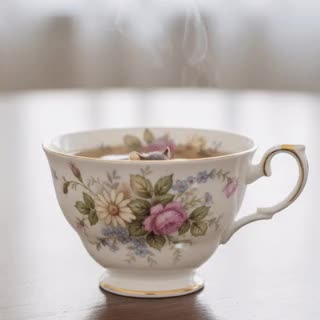
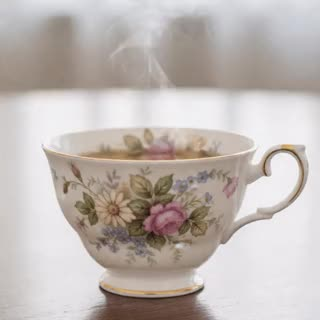
GitHub star badges next to code links; ChronoEdit teaser at native frame rate

diff --git a/index.html b/index.html
@@ -153,7 +153,7 @@
                 <br>
                 <a href="https://research.nvidia.com/labs/sil/projects/omnidreams-blog/">project page</a> /
                 <a href="https://arxiv.org/abs/2606.03159">arXiv</a> /
-                <a href="https://github.com/nv-tlabs/omni-dreams">code</a>
+                <a href="https://github.com/nv-tlabs/omni-dreams">code</a> <a href="https://github.com/nv-tlabs/omni-dreams"><img src="https://img.shields.io/github/stars/nv-tlabs/omni-dreams?style=social&amp;label=" alt="GitHub stars" style="height:20px;vertical-align:middle"></a>
                 <p></p>
                 <p align="justify">A real-time generative world model built on Cosmos for closed-loop autonomous vehicle simulation.</p>
             </td>
@@ -171,7 +171,7 @@
                 <br>
                 <a href="https://research.nvidia.com/labs/cosmos-lab/cosmos3/">project page</a> /
                 <a href="https://arxiv.org/abs/2606.02800">arXiv</a> /
-                <a href="https://github.com/NVIDIA/cosmos">code</a>
+                <a href="https://github.com/NVIDIA/cosmos">code</a> <a href="https://github.com/NVIDIA/cosmos"><img src="https://img.shields.io/github/stars/NVIDIA/cosmos?style=social&amp;label=" alt="GitHub stars" style="height:20px;vertical-align:middle"></a>
                 <p></p>
                 <p align="justify">The third generation of NVIDIA Cosmos: omnimodal world foundation models for physical AI.</p>
             </td>
@@ -195,7 +195,7 @@
                 <br>
                 <a href="https://research.nvidia.com/labs/sil/projects/pid/">project page</a> /
                 <a href="https://arxiv.org/abs/2605.23902">arXiv</a> /
-                <a href="https://github.com/nv-tlabs/PiD">code</a> /
+                <a href="https://github.com/nv-tlabs/PiD">code</a> <a href="https://github.com/nv-tlabs/PiD"><img src="https://img.shields.io/github/stars/nv-tlabs/PiD?style=social&amp;label=" alt="GitHub stars" style="height:20px;vertical-align:middle"></a> /
                 <a href="https://huggingface.co/nvidia/PiD">model</a>
                 <p></p>
                 <p align="justify">Replaces the VAE decoder with a fast pixel-space diffusion decoder, turning low-resolution latents into sharp high-resolution images.</p>
@@ -223,7 +223,7 @@
                 <br>
                 <a href="https://research.nvidia.com/labs/sil/projects/gamma-world/">project page</a> /
                 <a href="https://arxiv.org/abs/2605.28816">arXiv</a> /
-                <a href="https://github.com/nv-tlabs/Gamma-World">code</a>
+                <a href="https://github.com/nv-tlabs/Gamma-World">code</a> <a href="https://github.com/nv-tlabs/Gamma-World"><img src="https://img.shields.io/github/stars/nv-tlabs/Gamma-World?style=social&amp;label=" alt="GitHub stars" style="height:20px;vertical-align:middle"></a>
                 <p></p>
                 <p align="justify">A generative world model that simulates many interacting agents in a shared world, going beyond the two-player setting.</p>
             </td>
@@ -255,7 +255,7 @@
                 <br>
                 <a href="https://nv-tlabs.github.io/Project-Lyra/">project page</a> /
                 <a href="https://arxiv.org/abs/2604.13036">arXiv</a> /
-                <a href="https://github.com/nv-tlabs/lyra">code</a>
+                <a href="https://github.com/nv-tlabs/lyra">code</a> <a href="https://github.com/nv-tlabs/lyra"><img src="https://img.shields.io/github/stars/nv-tlabs/lyra?style=social&amp;label=" alt="GitHub stars" style="height:20px;vertical-align:middle"></a>
                 <p></p>
                 <p align="justify">Generates large, explorable 3D worlds from a prompt that can be navigated freely in real time.</p>
             </td>
@@ -286,7 +286,7 @@
                 <br>
                 <a href="https://research.nvidia.com/labs/toronto-ai/chronoedit/">project page</a> /
                 <a href="https://arxiv.org/abs/2510.04290">arXiv</a> /
-                <a href="https://github.com/nv-tlabs/ChronoEdit">code</a>
+                <a href="https://github.com/nv-tlabs/ChronoEdit">code</a> <a href="https://github.com/nv-tlabs/ChronoEdit"><img src="https://img.shields.io/github/stars/nv-tlabs/ChronoEdit?style=social&amp;label=" alt="GitHub stars" style="height:20px;vertical-align:middle"></a>
                 <p></p>
                 <p align="justify">Reframes image editing as a short video generation problem so the model can reason about how a scene changes over time, enabling physically plausible edits and world simulation.</p>
             </td>
@@ -316,7 +316,7 @@
                 <br>
                 <a href="https://research.nvidia.com/labs/toronto-ai/lyra/">project page</a> /
                 <a href="https://arxiv.org/abs/2509.19296">arXiv</a> /
-                <a href="https://github.com/nv-tlabs/lyra">code</a>
+                <a href="https://github.com/nv-tlabs/lyra">code</a> <a href="https://github.com/nv-tlabs/lyra"><img src="https://img.shields.io/github/stars/nv-tlabs/lyra?style=social&amp;label=" alt="GitHub stars" style="height:20px;vertical-align:middle"></a>
                 <p></p>
                 <p align="justify">Distills a video diffusion model into a feed-forward 3D Gaussian scene generator, producing explorable 3D scenes from a single image or text.</p>
             </td>
@@ -348,7 +348,7 @@
                 <br>
                 <a href="https://research.nvidia.com/labs/toronto-ai/vipe/">project page</a> /
                 <a href="https://research.nvidia.com/labs/toronto-ai/vipe/assets/paper.pdf">paper</a> /
-                <a href="https://github.com/nv-tlabs/vipe">code</a>
+                <a href="https://github.com/nv-tlabs/vipe">code</a> <a href="https://github.com/nv-tlabs/vipe"><img src="https://img.shields.io/github/stars/nv-tlabs/vipe?style=social&amp;label=" alt="GitHub stars" style="height:20px;vertical-align:middle"></a>
                 <p></p>
                 <p align="justify">A robust engine that recovers camera poses, intrinsics and dense metric depth from in-the-wild videos at scale.</p>
             </td>
@@ -381,7 +381,7 @@
                 <br>
                 <a href="https://research.nvidia.com/labs/toronto-ai/cosmos_drive_dreams/">project page</a> /
                 <a href="https://arxiv.org/abs/2506.09042">arXiv</a> /
-                <a href="https://github.com/nv-tlabs/Cosmos-Drive-Dreams">code</a>
+                <a href="https://github.com/nv-tlabs/Cosmos-Drive-Dreams">code</a> <a href="https://github.com/nv-tlabs/Cosmos-Drive-Dreams"><img src="https://img.shields.io/github/stars/nv-tlabs/Cosmos-Drive-Dreams?style=social&amp;label=" alt="GitHub stars" style="height:20px;vertical-align:middle"></a>
                 <p></p>
                 <p align="justify">A synthetic data generation pipeline built on world foundation models that produces diverse, controllable driving data at scale.</p>
             </td>
@@ -408,7 +408,7 @@
                 <br>
                 <a href="https://research.nvidia.com/labs/toronto-ai/GEN3C/">project page</a> /
                 <a href="https://arxiv.org/abs/2503.03751">arXiv</a> /
-                <a href="https://github.com/nv-tlabs/GEN3C">code</a> /
+                <a href="https://github.com/nv-tlabs/GEN3C">code</a> <a href="https://github.com/nv-tlabs/GEN3C"><img src="https://img.shields.io/github/stars/nv-tlabs/GEN3C?style=social&amp;label=" alt="GitHub stars" style="height:20px;vertical-align:middle"></a> /
                 <a href="https://www.youtube.com/watch?v=ai72aAA0dWo">video</a>
                 <p></p>
                 <p align="justify">A generative video model guided by an explicit 3D cache, giving precise camera control and 3D-consistent results from as little as a single image.</p>
@@ -427,7 +427,7 @@
                 <br>
                 <a href="https://research.nvidia.com/labs/dir/cosmos-transfer1/">project page</a> /
                 <a href="https://arxiv.org/abs/2503.14492">arXiv</a> /
-                <a href="https://github.com/nvidia-cosmos/cosmos-transfer1">code</a> /
+                <a href="https://github.com/nvidia-cosmos/cosmos-transfer1">code</a> <a href="https://github.com/nvidia-cosmos/cosmos-transfer1"><img src="https://img.shields.io/github/stars/nvidia-cosmos/cosmos-transfer1?style=social&amp;label=" alt="GitHub stars" style="height:20px;vertical-align:middle"></a> /
                 <a href="https://www.youtube.com/watch?v=0Yr5SdrVnxc">video</a>
                 <p></p>
                 <p align="justify">A conditional world foundation model that generates simulations from multiple spatial control inputs such as segmentation, depth and edges.</p>
@@ -454,7 +454,7 @@
                 <br>
                 <a href="https://research.nvidia.com/labs/toronto-ai/difix3d/">project page</a> /
                 <a href="https://arxiv.org/abs/2503.01774">arXiv</a> /
-                <a href="https://github.com/nv-tlabs/Difix3D">code</a>
+                <a href="https://github.com/nv-tlabs/Difix3D">code</a> <a href="https://github.com/nv-tlabs/Difix3D"><img src="https://img.shields.io/github/stars/nv-tlabs/Difix3D?style=social&amp;label=" alt="GitHub stars" style="height:20px;vertical-align:middle"></a>
                 <p></p>
                 <p align="justify">A single-step diffusion model that removes artifacts from NeRF and 3D Gaussian Splatting renderings and improves novel-view quality.</p>
             </td>
@@ -477,7 +477,7 @@
                 <br>
                 <a href="https://research.nvidia.com/labs/toronto-ai/xcube/">project page</a> /
                 <a href="https://arxiv.org/abs/2312.03806">arXiv</a> /
-                <a href="https://github.com/nv-tlabs/XCube">code</a> /
+                <a href="https://github.com/nv-tlabs/XCube">code</a> <a href="https://github.com/nv-tlabs/XCube"><img src="https://img.shields.io/github/stars/nv-tlabs/XCube?style=social&amp;label=" alt="GitHub stars" style="height:20px;vertical-align:middle"></a> /
                 <a href="https://www.youtube.com/watch?v=GX0lzwy8nUI">video</a>
                 <p></p>
                 <p align="justify">A generative model for high-resolution sparse 3D voxel grids that scales to millions of voxels and large outdoor scenes in a feed-forward fashion.</p>
@@ -497,7 +497,7 @@
                 <br>
                 <a href="https://xrenaa.github.io/look-outside-room/">project page</a> /
                 <a href="https://arxiv.org/abs/2203.09457">arXiv</a> /
-                <a href="https://github.com/xrenaa/Look-Outside-Room">code</a> /
+                <a href="https://github.com/xrenaa/Look-Outside-Room">code</a> <a href="https://github.com/xrenaa/Look-Outside-Room"><img src="https://img.shields.io/github/stars/xrenaa/Look-Outside-Room?style=social&amp;label=" alt="GitHub stars" style="height:20px;vertical-align:middle"></a> /
                 <a href="https://www.youtube.com/watch?v=eSftXilv21s">video</a>
                 <p></p>
                 <p align="justify">Synthesizes long-term, consistent 3D scene videos from a single image along arbitrary camera trajectories.</p>
@@ -519,7 +519,7 @@
                 <br>
                 <a href="https://research.nvidia.com/labs/sil/projects/omnidreams-blog/">project page</a> /
                 <a href="https://arxiv.org/abs/2606.03159">arXiv</a> /
-                <a href="https://github.com/nv-tlabs/omni-dreams">code</a>
+                <a href="https://github.com/nv-tlabs/omni-dreams">code</a> <a href="https://github.com/nv-tlabs/omni-dreams"><img src="https://img.shields.io/github/stars/nv-tlabs/omni-dreams?style=social&amp;label=" alt="GitHub stars" style="height:20px;vertical-align:middle"></a>
                 <p></p>
                 <p align="justify">A real-time generative world model built on Cosmos for closed-loop autonomous vehicle simulation.</p>
             </td>
@@ -537,7 +537,7 @@
                 <br>
                 <a href="https://research.nvidia.com/labs/cosmos-lab/cosmos3/">project page</a> /
                 <a href="https://arxiv.org/abs/2606.02800">arXiv</a> /
-                <a href="https://github.com/NVIDIA/cosmos">code</a>
+                <a href="https://github.com/NVIDIA/cosmos">code</a> <a href="https://github.com/NVIDIA/cosmos"><img src="https://img.shields.io/github/stars/NVIDIA/cosmos?style=social&amp;label=" alt="GitHub stars" style="height:20px;vertical-align:middle"></a>
                 <p></p>
                 <p align="justify">The third generation of NVIDIA Cosmos: omnimodal world foundation models for physical AI.</p>
             </td>
@@ -561,7 +561,7 @@
                 <br>
                 <a href="https://research.nvidia.com/labs/sil/projects/pid/">project page</a> /
                 <a href="https://arxiv.org/abs/2605.23902">arXiv</a> /
-                <a href="https://github.com/nv-tlabs/PiD">code</a> /
+                <a href="https://github.com/nv-tlabs/PiD">code</a> <a href="https://github.com/nv-tlabs/PiD"><img src="https://img.shields.io/github/stars/nv-tlabs/PiD?style=social&amp;label=" alt="GitHub stars" style="height:20px;vertical-align:middle"></a> /
                 <a href="https://huggingface.co/nvidia/PiD">model</a>
                 <p></p>
                 <p align="justify">Replaces the VAE decoder with a fast pixel-space diffusion decoder, turning low-resolution latents into sharp high-resolution images.</p>
@@ -589,7 +589,7 @@
                 <br>
                 <a href="https://research.nvidia.com/labs/sil/projects/gamma-world/">project page</a> /
                 <a href="https://arxiv.org/abs/2605.28816">arXiv</a> /
-                <a href="https://github.com/nv-tlabs/Gamma-World">code</a>
+                <a href="https://github.com/nv-tlabs/Gamma-World">code</a> <a href="https://github.com/nv-tlabs/Gamma-World"><img src="https://img.shields.io/github/stars/nv-tlabs/Gamma-World?style=social&amp;label=" alt="GitHub stars" style="height:20px;vertical-align:middle"></a>
                 <p></p>
                 <p align="justify">A generative world model that simulates many interacting agents in a shared world, going beyond the two-player setting.</p>
             </td>
@@ -621,7 +621,7 @@
                 <br>
                 <a href="https://nv-tlabs.github.io/Project-Lyra/">project page</a> /
                 <a href="https://arxiv.org/abs/2604.13036">arXiv</a> /
-                <a href="https://github.com/nv-tlabs/lyra">code</a>
+                <a href="https://github.com/nv-tlabs/lyra">code</a> <a href="https://github.com/nv-tlabs/lyra"><img src="https://img.shields.io/github/stars/nv-tlabs/lyra?style=social&amp;label=" alt="GitHub stars" style="height:20px;vertical-align:middle"></a>
                 <p></p>
                 <p align="justify">Generates large, explorable 3D worlds from a prompt that can be navigated freely in real time.</p>
             </td>
@@ -676,7 +676,7 @@
                 <br>
                 <a href="https://research.nvidia.com/labs/toronto-ai/chronoedit/">project page</a> /
                 <a href="https://arxiv.org/abs/2510.04290">arXiv</a> /
-                <a href="https://github.com/nv-tlabs/ChronoEdit">code</a>
+                <a href="https://github.com/nv-tlabs/ChronoEdit">code</a> <a href="https://github.com/nv-tlabs/ChronoEdit"><img src="https://img.shields.io/github/stars/nv-tlabs/ChronoEdit?style=social&amp;label=" alt="GitHub stars" style="height:20px;vertical-align:middle"></a>
                 <p></p>
                 <p align="justify">Reframes image editing as a short video generation problem so the model can reason about how a scene changes over time, enabling physically plausible edits and world simulation.</p>
             </td>
@@ -694,7 +694,7 @@
                 <br>
                 <a href="https://research.nvidia.com/labs/cosmos-lab/cosmos-predict2.5/">project page</a> /
                 <a href="https://arxiv.org/abs/2511.00062">arXiv</a> /
-                <a href="https://github.com/nvidia-cosmos/cosmos-predict2.5">code</a>
+                <a href="https://github.com/nvidia-cosmos/cosmos-predict2.5">code</a> <a href="https://github.com/nvidia-cosmos/cosmos-predict2.5"><img src="https://img.shields.io/github/stars/nvidia-cosmos/cosmos-predict2.5?style=social&amp;label=" alt="GitHub stars" style="height:20px;vertical-align:middle"></a>
                 <p></p>
                 <p align="justify">Cosmos-Predict2.5: video foundation models for world simulation in physical AI.</p>
             </td>
@@ -724,7 +724,7 @@
                 <br>
                 <a href="https://research.nvidia.com/labs/toronto-ai/lyra/">project page</a> /
                 <a href="https://arxiv.org/abs/2509.19296">arXiv</a> /
-                <a href="https://github.com/nv-tlabs/lyra">code</a>
+                <a href="https://github.com/nv-tlabs/lyra">code</a> <a href="https://github.com/nv-tlabs/lyra"><img src="https://img.shields.io/github/stars/nv-tlabs/lyra?style=social&amp;label=" alt="GitHub stars" style="height:20px;vertical-align:middle"></a>
                 <p></p>
                 <p align="justify">Distills a video diffusion model into a feed-forward 3D Gaussian scene generator, producing explorable 3D scenes from a single image or text.</p>
             </td>
@@ -756,7 +756,7 @@
                 <br>
                 <a href="https://research.nvidia.com/labs/toronto-ai/vipe/">project page</a> /
                 <a href="https://research.nvidia.com/labs/toronto-ai/vipe/assets/paper.pdf">paper</a> /
-                <a href="https://github.com/nv-tlabs/vipe">code</a>
+                <a href="https://github.com/nv-tlabs/vipe">code</a> <a href="https://github.com/nv-tlabs/vipe"><img src="https://img.shields.io/github/stars/nv-tlabs/vipe?style=social&amp;label=" alt="GitHub stars" style="height:20px;vertical-align:middle"></a>
                 <p></p>
                 <p align="justify">A robust engine that recovers camera poses, intrinsics and dense metric depth from in-the-wild videos at scale.</p>
             </td>
@@ -789,7 +789,7 @@
                 <br>
                 <a href="https://research.nvidia.com/labs/toronto-ai/cosmos_drive_dreams/">project page</a> /
                 <a href="https://arxiv.org/abs/2506.09042">arXiv</a> /
-                <a href="https://github.com/nv-tlabs/Cosmos-Drive-Dreams">code</a>
+                <a href="https://github.com/nv-tlabs/Cosmos-Drive-Dreams">code</a> <a href="https://github.com/nv-tlabs/Cosmos-Drive-Dreams"><img src="https://img.shields.io/github/stars/nv-tlabs/Cosmos-Drive-Dreams?style=social&amp;label=" alt="GitHub stars" style="height:20px;vertical-align:middle"></a>
                 <p></p>
                 <p align="justify">A synthetic data generation pipeline built on world foundation models that produces diverse, controllable driving data at scale.</p>
             </td>
@@ -816,7 +816,7 @@
                 <br>
                 <a href="https://research.nvidia.com/labs/toronto-ai/GEN3C/">project page</a> /
                 <a href="https://arxiv.org/abs/2503.03751">arXiv</a> /
-                <a href="https://github.com/nv-tlabs/GEN3C">code</a> /
+                <a href="https://github.com/nv-tlabs/GEN3C">code</a> <a href="https://github.com/nv-tlabs/GEN3C"><img src="https://img.shields.io/github/stars/nv-tlabs/GEN3C?style=social&amp;label=" alt="GitHub stars" style="height:20px;vertical-align:middle"></a> /
                 <a href="https://www.youtube.com/watch?v=ai72aAA0dWo">video</a>
                 <p></p>
                 <p align="justify">A generative video model guided by an explicit 3D cache, giving precise camera control and 3D-consistent results from as little as a single image.</p>
@@ -835,7 +835,7 @@
                 <br>
                 <a href="https://research.nvidia.com/labs/dir/cosmos-transfer1/">project page</a> /
                 <a href="https://arxiv.org/abs/2503.14492">arXiv</a> /
-                <a href="https://github.com/nvidia-cosmos/cosmos-transfer1">code</a> /
+                <a href="https://github.com/nvidia-cosmos/cosmos-transfer1">code</a> <a href="https://github.com/nvidia-cosmos/cosmos-transfer1"><img src="https://img.shields.io/github/stars/nvidia-cosmos/cosmos-transfer1?style=social&amp;label=" alt="GitHub stars" style="height:20px;vertical-align:middle"></a> /
                 <a href="https://www.youtube.com/watch?v=0Yr5SdrVnxc">video</a>
                 <p></p>
                 <p align="justify">A conditional world foundation model that generates simulations from multiple spatial control inputs such as segmentation, depth and edges.</p>
@@ -862,7 +862,7 @@
                 <br>
                 <a href="https://research.nvidia.com/labs/toronto-ai/difix3d/">project page</a> /
                 <a href="https://arxiv.org/abs/2503.01774">arXiv</a> /
-                <a href="https://github.com/nv-tlabs/Difix3D">code</a>
+                <a href="https://github.com/nv-tlabs/Difix3D">code</a> <a href="https://github.com/nv-tlabs/Difix3D"><img src="https://img.shields.io/github/stars/nv-tlabs/Difix3D?style=social&amp;label=" alt="GitHub stars" style="height:20px;vertical-align:middle"></a>
                 <p></p>
                 <p align="justify">A single-step diffusion model that removes artifacts from NeRF and 3D Gaussian Splatting renderings and improves novel-view quality.</p>
             </td>
@@ -890,7 +890,7 @@
                 <br>
                 <a href="https://research.nvidia.com/labs/toronto-ai/infinicube/">project page</a> /
                 <a href="https://arxiv.org/abs/2412.03934">arXiv</a> /
-                <a href="https://github.com/nv-tlabs/InfiniCube">code</a>
+                <a href="https://github.com/nv-tlabs/InfiniCube">code</a> <a href="https://github.com/nv-tlabs/InfiniCube"><img src="https://img.shields.io/github/stars/nv-tlabs/InfiniCube?style=social&amp;label=" alt="GitHub stars" style="height:20px;vertical-align:middle"></a>
                 <p></p>
                 <p align="justify">Generates unbounded, controllable dynamic 3D driving scenes by combining sparse-voxel world generation with world-guided video models.</p>
             </td>
@@ -916,7 +916,7 @@
                 <br>
                 <a href="https://research.nvidia.com/labs/toronto-ai/scube/">project page</a> /
                 <a href="https://arxiv.org/abs/2410.20030">arXiv</a> /
-                <a href="https://github.com/nv-tlabs/SCube">code</a>
+                <a href="https://github.com/nv-tlabs/SCube">code</a> <a href="https://github.com/nv-tlabs/SCube"><img src="https://img.shields.io/github/stars/nv-tlabs/SCube?style=social&amp;label=" alt="GitHub stars" style="height:20px;vertical-align:middle"></a>
                 <p></p>
                 <p align="justify">Reconstructs large-scale 3D scenes from a handful of posed images in a feed-forward pass using a sparse-voxel Gaussian representation.</p>
             </td>
@@ -945,7 +945,7 @@
                 <br>
                 <a href="https://research.nvidia.com/labs/toronto-ai/publication/2024_siggraph_-fvdb/">project page</a> /
                 <a href="https://arxiv.org/abs/2407.01781">arXiv</a> /
-                <a href="https://github.com/openvdb/fvdb">code</a>
+                <a href="https://github.com/openvdb/fvdb">code</a> <a href="https://github.com/openvdb/fvdb"><img src="https://img.shields.io/github/stars/openvdb/fvdb?style=social&amp;label=" alt="GitHub stars" style="height:20px;vertical-align:middle"></a>
                 <p></p>
                 <p align="justify">A GPU framework for deep learning on sparse, large-scale 3D data built on OpenVDB.</p>
             </td>
@@ -968,7 +968,7 @@
                 <br>
                 <a href="https://research.nvidia.com/labs/toronto-ai/xcube/">project page</a> /
                 <a href="https://arxiv.org/abs/2312.03806">arXiv</a> /
-                <a href="https://github.com/nv-tlabs/XCube">code</a> /
+                <a href="https://github.com/nv-tlabs/XCube">code</a> <a href="https://github.com/nv-tlabs/XCube"><img src="https://img.shields.io/github/stars/nv-tlabs/XCube?style=social&amp;label=" alt="GitHub stars" style="height:20px;vertical-align:middle"></a> /
                 <a href="https://www.youtube.com/watch?v=GX0lzwy8nUI">video</a>
                 <p></p>
                 <p align="justify">A generative model for high-resolution sparse 3D voxel grids that scales to millions of voxels and large outdoor scenes in a feed-forward fashion.</p>
@@ -990,7 +990,7 @@
                 <br>
                 <a href="https://chenyanglei.github.io/deflicker/">project page</a> /
                 <a href="https://arxiv.org/abs/2303.08120">arXiv</a> /
-                <a href="https://github.com/ChenyangLEI/All-In-One-Deflicker">code</a>
+                <a href="https://github.com/ChenyangLEI/All-In-One-Deflicker">code</a> <a href="https://github.com/ChenyangLEI/All-In-One-Deflicker"><img src="https://img.shields.io/github/stars/ChenyangLEI/All-In-One-Deflicker?style=social&amp;label=" alt="GitHub stars" style="height:20px;vertical-align:middle"></a>
                 <p></p>
                 <p align="justify">Removes flicker from videos without knowing the flicker type, using a neural filter on top of an imperfect neural atlas.</p>
             </td>
@@ -1009,7 +1009,7 @@
                 <br>
                 <a href="https://xrenaa.github.io/look-outside-room/">project page</a> /
                 <a href="https://arxiv.org/abs/2203.09457">arXiv</a> /
-                <a href="https://github.com/xrenaa/Look-Outside-Room">code</a> /
+                <a href="https://github.com/xrenaa/Look-Outside-Room">code</a> <a href="https://github.com/xrenaa/Look-Outside-Room"><img src="https://img.shields.io/github/stars/xrenaa/Look-Outside-Room?style=social&amp;label=" alt="GitHub stars" style="height:20px;vertical-align:middle"></a> /
                 <a href="https://www.youtube.com/watch?v=eSftXilv21s">video</a>
                 <p></p>
                 <p align="justify">Synthesizes long-term, consistent 3D scene videos from a single image along arbitrary camera trajectories.</p>
@@ -1030,7 +1030,7 @@
                 <em>ICLR 2022</em>
                 <br>
                 <a href="https://arxiv.org/abs/2102.10543">arXiv</a> /
-                <a href="https://github.com/xrenaa/DisCo">code</a>
+                <a href="https://github.com/xrenaa/DisCo">code</a> <a href="https://github.com/xrenaa/DisCo"><img src="https://img.shields.io/github/stars/xrenaa/DisCo?style=social&amp;label=" alt="GitHub stars" style="height:20px;vertical-align:middle"></a>
                 <p></p>
                 <p align="justify">Discovers disentangled directions in pretrained generative models through a contrastive learning objective.</p>
             </td>
@@ -1053,7 +1053,7 @@
                 <br>
                 <a href="https://ydcustc.github.io/retriever-demo/">project page</a> /
                 <a href="https://arxiv.org/abs/2202.12307">arXiv</a> /
-                <a href="https://github.com/xrenaa/Retriever">code</a>
+                <a href="https://github.com/xrenaa/Retriever">code</a> <a href="https://github.com/xrenaa/Retriever"><img src="https://img.shields.io/github/stars/xrenaa/Retriever?style=social&amp;label=" alt="GitHub stars" style="height:20px;vertical-align:middle"></a>
                 <p></p>
                 <p align="justify">An unsupervised content-style representation modeled as a token-level bipartite graph, applied to both speech and images.</p>
             </td>
@@ -1074,7 +1074,7 @@
                 <em>ICLR 2022</em>
                 <br>
                 <a href="https://arxiv.org/abs/2106.01096">arXiv</a> /
-                <a href="https://github.com/ThomasMrY/Groupified-VAE">code</a>
+                <a href="https://github.com/ThomasMrY/Groupified-VAE">code</a> <a href="https://github.com/ThomasMrY/Groupified-VAE"><img src="https://img.shields.io/github/stars/ThomasMrY/Groupified-VAE?style=social&amp;label=" alt="GitHub stars" style="height:20px;vertical-align:middle"></a>
                 <p></p>
                 <p align="justify">A group-theory-based framework for unsupervised representation disentanglement.</p>
             </td>
@@ -1094,7 +1094,7 @@
                 <em>ICCV Workshop 2021</em>
                 <br>
                 <a href="https://arxiv.org/abs/2102.10544">arXiv</a> /
-                <a href="https://github.com/xrenaa/CS-DisMo">code</a>
+                <a href="https://github.com/xrenaa/CS-DisMo">code</a> <a href="https://github.com/xrenaa/CS-DisMo"><img src="https://img.shields.io/github/stars/xrenaa/CS-DisMo?style=social&amp;label=" alt="GitHub stars" style="height:20px;vertical-align:middle"></a>
                 <p></p>
                 <p align="justify">Studies the inductive biases needed to separate content from style without supervision.</p>
             </td>
@@ -1115,7 +1115,7 @@
                 <em>ICCV 2021</em>
                 <br>
                 <a href="https://arxiv.org/abs/2109.01510">arXiv</a> /
-                <a href="https://github.com/xrenaa/Safety-Aware-Motion-Prediction">code</a>
+                <a href="https://github.com/xrenaa/Safety-Aware-Motion-Prediction">code</a> <a href="https://github.com/xrenaa/Safety-Aware-Motion-Prediction"><img src="https://img.shields.io/github/stars/xrenaa/Safety-Aware-Motion-Prediction?style=social&amp;label=" alt="GitHub stars" style="height:20px;vertical-align:middle"></a>
                 <p></p>
                 <p align="justify">Predicts occupancy of both seen and unseen vehicles to make motion forecasting safer for autonomous driving.</p>
             </td>
@@ -1135,7 +1135,7 @@
                 <br>
                 <a href="pub/blur">project page</a> /
                 <a href="https://arxiv.org/abs/2012.05228">arXiv</a> /
-                <a href="https://github.com/xrenaa/Deblur-by-Fitting">code</a>
+                <a href="https://github.com/xrenaa/Deblur-by-Fitting">code</a> <a href="https://github.com/xrenaa/Deblur-by-Fitting"><img src="https://img.shields.io/github/stars/xrenaa/Deblur-by-Fitting?style=social&amp;label=" alt="GitHub stars" style="height:20px;vertical-align:middle"></a>
                 <p></p>
                 <p align="justify">Improves video deblurring by fitting the network to the sharp frames found within the test video itself.</p>
             </td>
@@ -1155,7 +1155,7 @@
                 <em>ACM MM 2020</em>&nbsp; <span style="color:#c00">Oral (9% acceptance rate)</span>
                 <br>
                 <a href="https://arxiv.org/abs/1912.06606">arXiv</a> /
-                <a href="https://github.com/xrenaa/Music-Dance-Video-Synthesis">code</a> /
+                <a href="https://github.com/xrenaa/Music-Dance-Video-Synthesis">code</a> <a href="https://github.com/xrenaa/Music-Dance-Video-Synthesis"><img src="https://img.shields.io/github/stars/xrenaa/Music-Dance-Video-Synthesis?style=social&amp;label=" alt="GitHub stars" style="height:20px;vertical-align:middle"></a> /
                 <a href="https://www.youtube.com/watch?v=0rMuFMZa_K4">video</a>
                 <p></p>
                 <p align="justify">Generates dance videos from music with a self-supervised pose-synthesis pipeline.</p>
